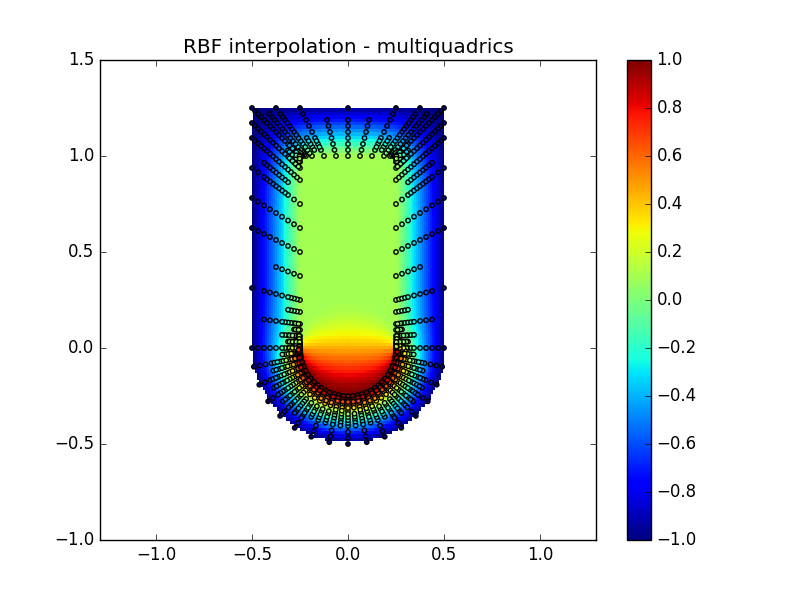
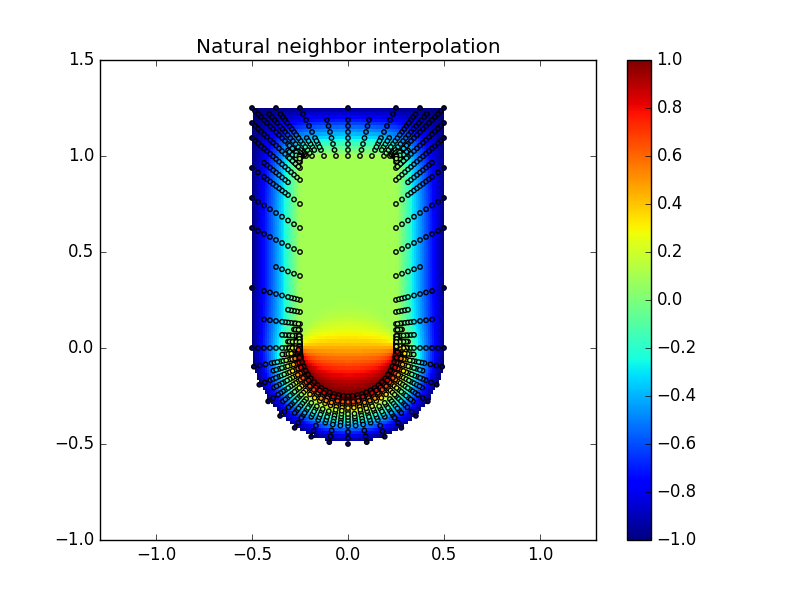
Cleanup

Changed region(s): [[0.2188, 0.06, 0.6562, 0.09]]

diff --git a/source/main.py b/source/main.py
@@ -10,7 +10,7 @@ from matplotlib import cm
 # Read PDE solution from VTK
 # Reference: http://stackoverflow.com/questions/23138112/vtk-to-maplotlib-using-numpy
 reader = vtk.vtkUnstructuredGridReader()
-reader.SetFileName("PDE/run/solution.0.10.vtk")
+reader.SetFileName("../PDE/run/solution.0.10.vtk")
 reader.Update()
 nodes = vtk_to_numpy(reader.GetOutput().GetPoints().GetData())
 u = vtk_to_numpy(reader.GetOutput().GetPointData().GetArray(0))
@@ -37,6 +37,6 @@ plt.subplot(1, 1, 1)
 plt.pcolor(XI, YI, UI, cmap=cm.jet)
 plt.scatter(x, y, 10, u, cmap=cm.jet)
 plt.axis('equal')
-plt.title('RBF interpolation - multiquadrics')
+plt.title('Natural neighbor interpolation')
 plt.colorbar()
 plt.show()
